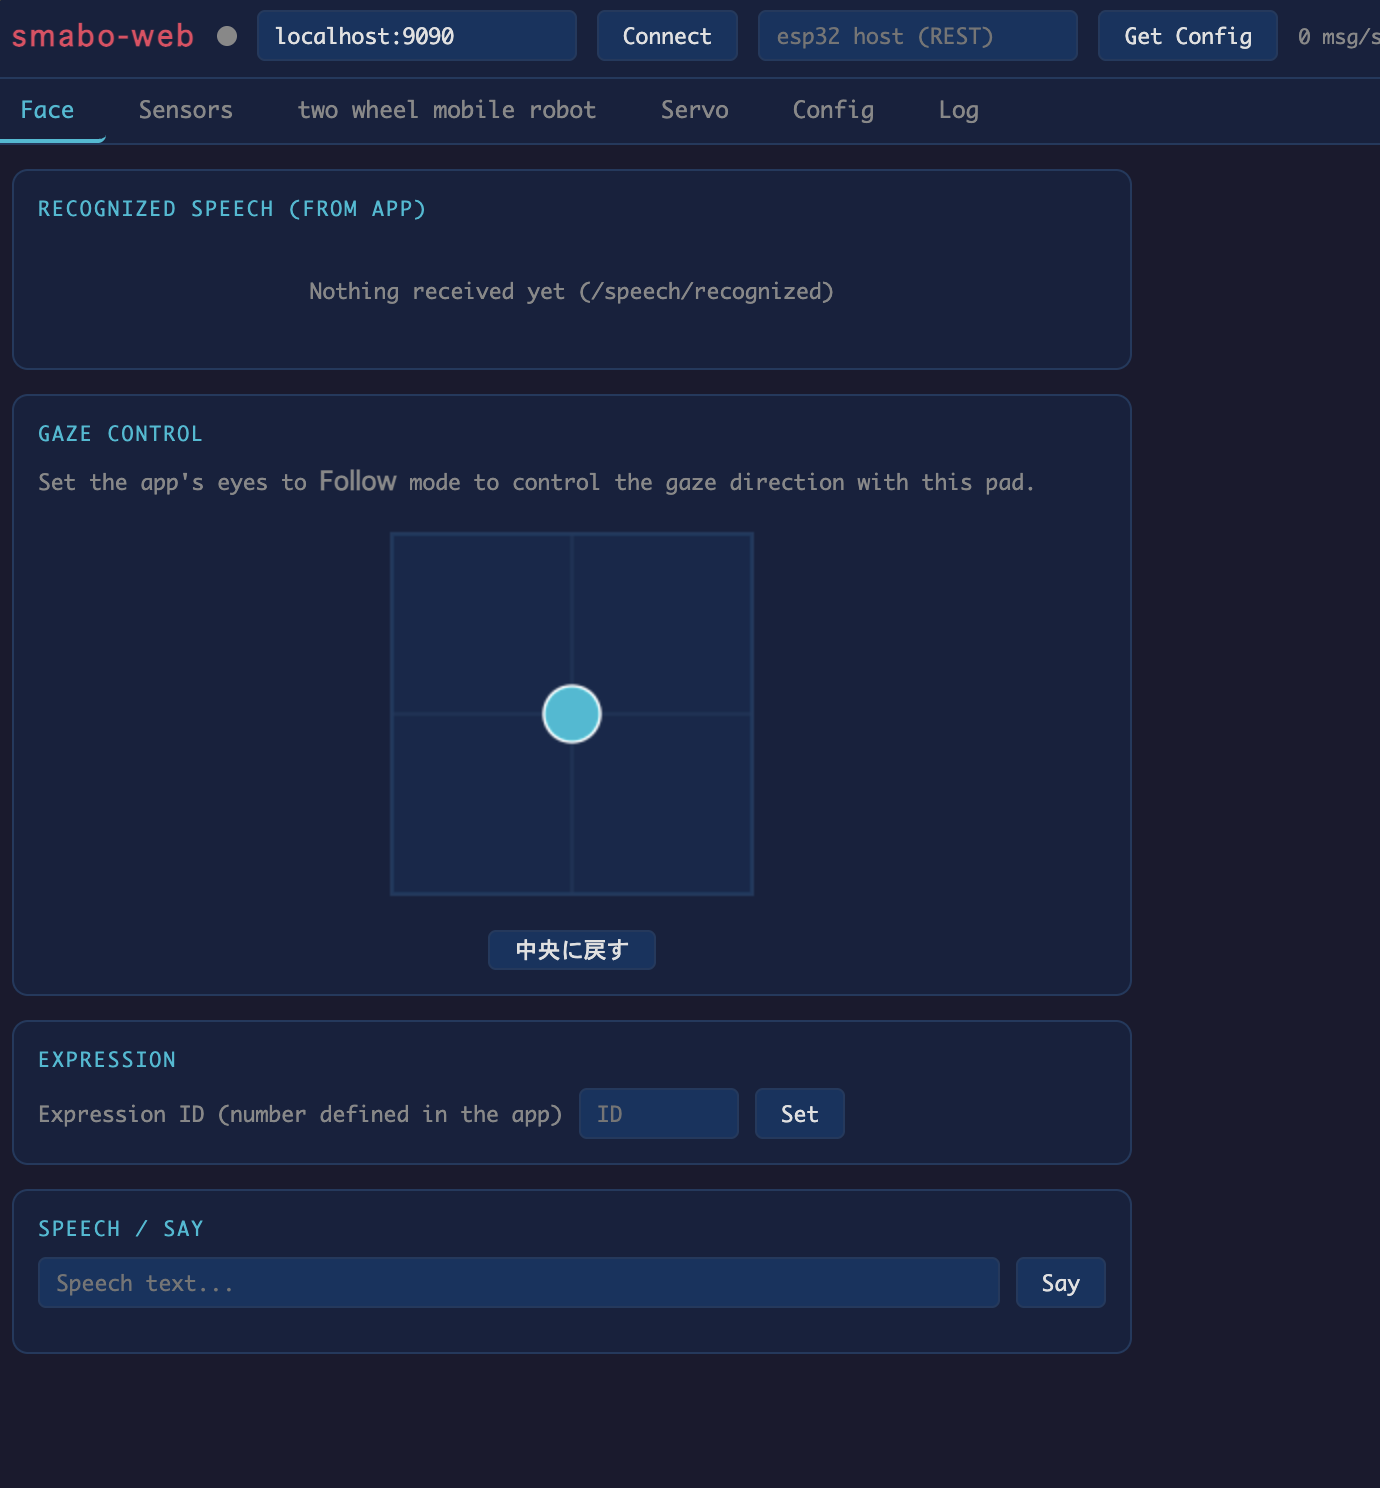
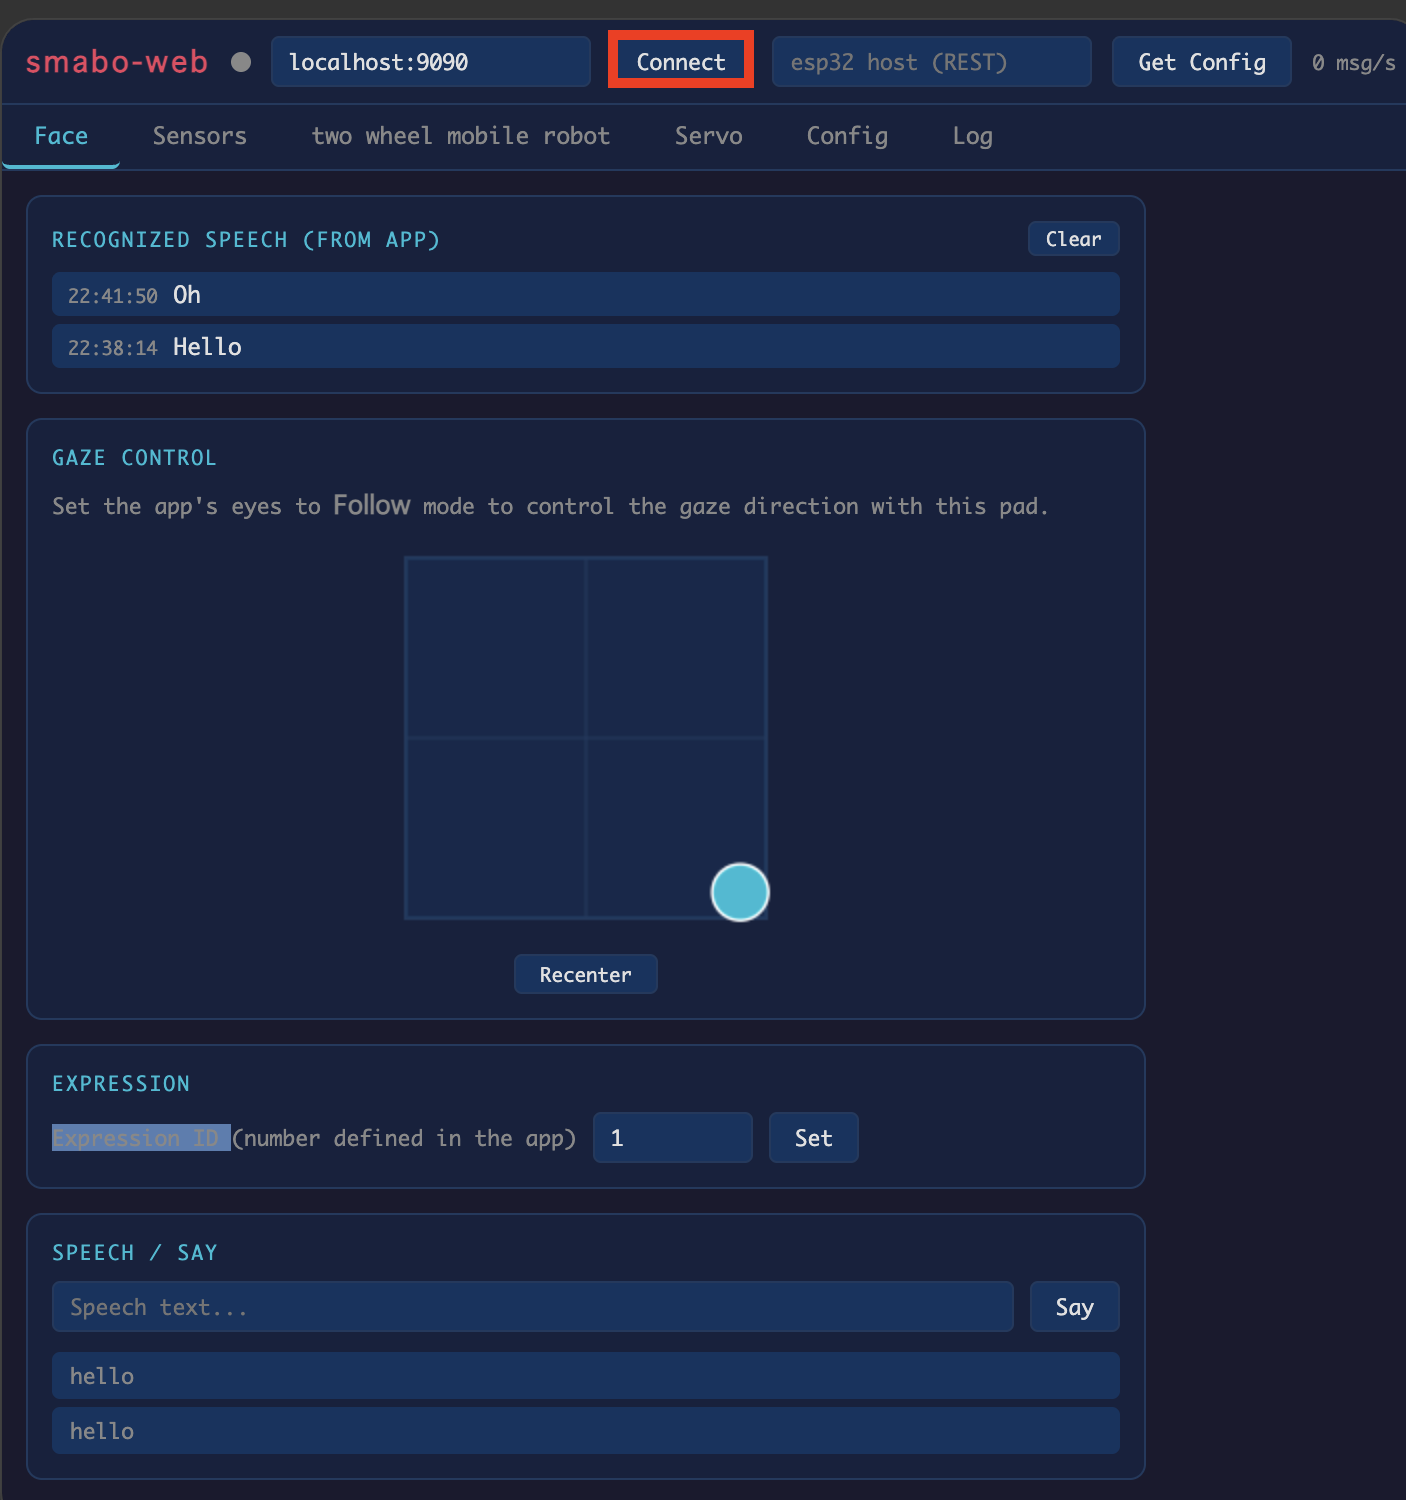
update smabo-app

diff --git a/docs/guides/smabo-app.html b/docs/guides/smabo-app.html
@@ -117,6 +117,7 @@
 <li>smaboのセンサー（スマホのセンサーを使用）</li>
 </ul>
 <p>の役割を担います。</p>
+<p><img alt="" src="../images/smabo_sysytem_architecture.drawio.svg" /></p>
 
 <h3 id="smabo-appのインストール">smabo-appのインストール<a class="headerlink" href="#smabo-appのインストール" title="Permanent link">#</a></h3>
 <p>スマホにsmabo-appをインストールします。</p>
@@ -145,10 +146,10 @@
 
 <h3 id="smabo-brain---smabo-webの接続">smabo-brain &lt;-&gt; smabo-webの接続<a class="headerlink" href="#smabo-brain---smabo-webの接続" title="Permanent link">#</a></h3>
 <p>smabo-brainとsmabo-webの接続を行います。</p>
-<p>smabo-webの「接続」ボタンをクリックします。</p>
+<p>smabo-webの「Connect」ボタンをクリックします。</p>
 <p><img alt="alt text" src="../images/web_connect_button.png" /></p>
 <br />
-<p>右下に「Brain Connected」と表示されればOKです。</p>
+<p>右下に「Brain connected」と表示されればOKです。</p>
 <p><img alt="alt text" src="../images/web_brain_connected.png" /></p>
 
 <h3 id="smabo-appの接続">smabo-appの接続<a class="headerlink" href="#smabo-appの接続" title="Permanent link">#</a></h3>
@@ -160,7 +161,7 @@
 <br />
 <p>IPの欄に「smabo-brainを起動しているPC/SBCのIPアドレス」を入力し、「Save &amp; Reconnect」をタップします。</p>
 <p><img alt="alt text" src="../images/app_settings_ip.png" /></p>
-<p>しばらくして「Brain Connected」と表示されればOKです。</p>
+<p>しばらくして「Brain connected」と表示されればOKです。</p>
 <p><img alt="alt text" src="../images/app_brain_connected.png" /></p>
 
 <h3 id="smaboの顔の設定">smaboの顔の設定<a class="headerlink" href="#smaboの顔の設定" title="Permanent link">#</a></h3>